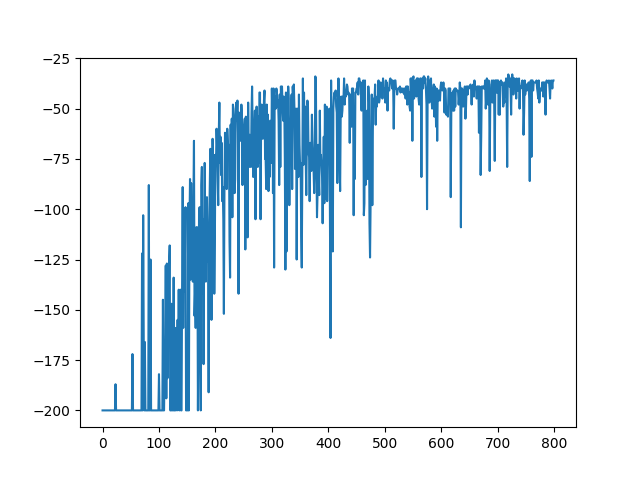
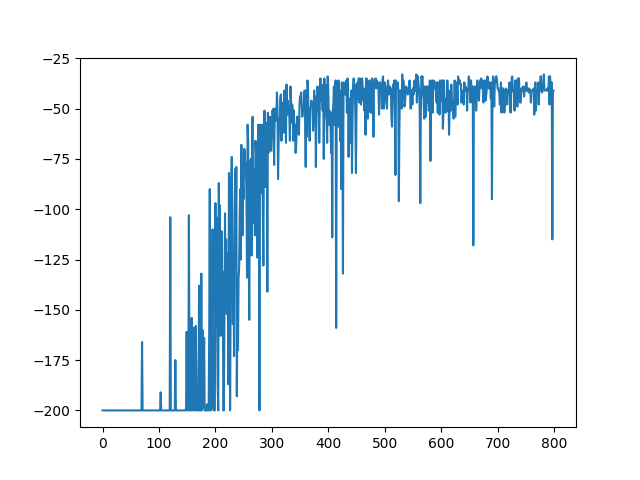
RK4 updates and changing SQlearn

Changed region(s): [[0.1562, 0.1562, 0.875, 0.875]]

diff --git a/ME759/rk4.cpp b/ME759/rk4.cpp
@@ -1,53 +1,88 @@
 #include <stdio.h>
 #include <iostream>
 #include <random>
-
-
-
 using namespace std;
 
-int main(int argc, char *argv[]) {
+void dsdt(double* deriv[], double theta1, double theta2,double dtheta1,double dtheta2,double a){
 
-    float theta1 = atoi(argv[1]);
-    float theta2 = atoi(argv[2]);
-    float dtheta1 = atoi(argv[3]);
-    float dtheta2 = atoi(argv[4]);
-    float a = atoi(argv[5]);
+    double dt = 0.2;
+    double pi = 3.14158 ; 
+    double g = 9.81;
 
-    float dt = 0.2;
-    float pi = 3.14158 ; 
-    float g = 9.81;
+    double l1 = 1.0;  // [m]
+    double l2 = 1.0;  // [m]
+    double m1 = 1.0;  //: [kg] mass of link 1
+    double m2 = 1.0 ; //: [kg] mass of link 2
+    double lc1 = 0.5 ; //: [m] position of the center of mass of link 1
+    double lc2 = 0.5 ; //: [m] position of the center of mass of link 2
+    double I1 = 1.0 ; //: moments of inertia for both links
+    double I2 = 1.0 ; //: moments of inertia for both links
 
-    float l1 = 1.0;  // [m]
-    float l2 = 1.0;  // [m]
-    float m1 = 1.0;  //: [kg] mass of link 1
-    float m2 = 1.0 ; //: [kg] mass of link 2
-    float lc1 = 0.5 ; //: [m] position of the center of mass of link 1
-    float lc2 = 0.5 ; //: [m] position of the center of mass of link 2
-    float I1 = 1.0 ; //: moments of inertia for both links
-    float I2 = 1.0 ; //: moments of inertia for both links
-
-    float d1 = (
-            m1 * lc1*lc1
-            + m2 * (l1*l1 + lc2*lc2 + 2 * l1 * lc2 * cos(theta2))
+    double d1 = (
+            m1 * (lc1*lc1)
+            + m2 * ((l1*l1) + (lc2*lc2) + 2 * l1 * lc2 * cos(theta2))
             + I1
             + I2
         );
-    float d2 = m2 * (lc2*lc2 + l1 * lc2 * cos(theta2)) + I2 ;
-    float phi2 = m2 * lc2 * g * cos(theta1 + theta2 - pi / 2.0);
-    float phi1 = (
-            -m2 * l1 * lc2 * dtheta2*dtheta2 * sin(theta2)
-            - 2 * m2 * l1 * lc2 * dtheta2 * dtheta1 * sin(theta2)
+    double d2 = m2 * ((lc2*lc2) + l1 * lc2 * cos(theta2)) + I2 ;
+    double phi2 = m2 * lc2 * g * cos(theta1 + theta2 - pi / 2.0);
+    double phi1 = (
+            -m2 * l1 * lc2 * (dtheta2*dtheta2) * sin(theta2)
+            - 2 * m2 * l1 * lc2 * (dtheta2 * dtheta1) * sin(theta2)
             + (m1 * lc1 + m2 * l1) * g * cos(theta1 - pi / 2)
             + phi2
         );
-    float ddtheta2 = (
-                a + d2 / d1 * phi1 - m2 * l1 * lc2 * dtheta1*dtheta1 * sin(theta2) - phi2
-            ) / (m2 * lc2*lc2 + I2 - d2*d2 / d1);
-    float ddtheta1 = -(d2 * ddtheta2 + phi1) / d1 ;
+    double ddtheta2 = (
+                a + d2 / d1 * phi1 - m2 * l1 * lc2 * (dtheta1*dtheta1) * sin(theta2) - phi2
+            ) / (m2 * (lc2*lc2) + I2 - (d2*d2) / d1);
+    double ddtheta1 = -(d2 * ddtheta2 + phi1) / d1 ;
 
-    cout << dtheta1 <<','<<dtheta2 << ','<< ddtheta1<< ','<< ddtheta2<< ','<< 0.0;
+    (*deriv)[0] = dtheta1;
+    (*deriv)[1] = dtheta2;
+    (*deriv)[2] = ddtheta1;
+    (*deriv)[3] = ddtheta1;
+    (*deriv)[4] = 0;
+
+}
+
+int main(int argc, char *argv[]) {
+
+    double *y = new double[5];
+    double *y1 = new double[5];
+
+    y[0] = atof(argv[1]);
+    y[1] = atof(argv[2]);
+    y[2] = atof(argv[3]);
+    y[3] = atof(argv[4]);
+    y[4] = atof(argv[5]);
+    
+    double dt = atof(argv[6]);
+    double dt2 = dt/2;
+
+    double *k1 = new double[5];
+    double *k2 = new double[5];
+    double *k3 = new double[5];
+    double *k4 = new double[5];
+
+    dsdt(&k1, y[0],               y[1],              y[2],              y[3],             y[4]);
+    dsdt(&k2, y[0] + dt2 * k1[0], y[1]+ dt2 * k1[1], y[2]+ dt2 * k1[2], y[3]+ dt2 * k1[3],y[4]+dt2 * k1[4]);
+    dsdt(&k3, y[0] + dt2 * k2[0], y[1]+ dt2 * k2[1], y[2]+ dt2 * k2[2], y[3]+ dt2 * k2[3],y[4]+dt2 * k2[4]);
+    dsdt(&k4, y[0] + dt * k3[0],  y[1]+ dt * k3[1],  y[2]+ dt * k3[2],  y[3]+ dt * k3[3], y[4]+dt * k3[4]);
+
+    for(int i = 0; i < 5; i++){
+        y1[i] = y[i] + dt/6 * (k1[i] + 2* k2[i] + 2*k3[i] + k4[i]);
+    }
+
+    delete[] k1;
+    delete[] k2;
+    delete[] k3;
+    delete[] k4;
+
+    cout << y1[0] <<','<< y1[1] << ','<< y1[2]<< ','<< y1[3] << ','<< y1[4]<< endl;
     cout.flush();
+
+    delete[] y;
+    delete[] y1;
 
     return 0;
 

diff --git a/ME759/SequentionalQlearn.py b/ME759/SequentionalQlearn.py
@@ -45,7 +45,7 @@ min_samples_for_training = 1000   # Minimum samples in the replay memory to enab
 
 
 ### Create environment
-env = gym.make('AcrobotCdyn') # Initialize the Gym environment
+env = gym.make('Acrobot') # Initialize the Gym environment
 
 # Get the shapes of the state space (observation_space) and action space (action_space)
 state_space_dim = env.observation_space.shape[0]
@@ -73,7 +73,7 @@ optimizer = torch.optim.Adam(policy_net.parameters(), lr=lr) # The optimizer wil
 loss_fn = nn.SmoothL1Loss()
 
 # Initialize the Gym environment
-env = gym.make('AcrobotCdyn') 
+env = gym.make('Acrobot') 
 observation, info = env.reset()
 
 plotting_rewards=[]
@@ -108,8 +108,9 @@ for episode_num, tau in enumerate(exploration_profile):
       replay_mem.push(observation, action, next_observation, reward)
 
       # Update the network
-      if len(replay_mem) > min_samples_for_training: # we enable the training only if we have enough samples in the replay memory, otherwise the training will use the same samples too often
-          update_step(policy_net, target_net, replay_mem, gamma, optimizer, loss_fn, batch_size, device)
+      if score % 5 == 1:
+        if len(replay_mem) > min_samples_for_training: # we enable the training only if we have enough samples in the replay memory, otherwise the training will use the same samples too often
+            update_step(policy_net, target_net, replay_mem, gamma, optimizer, loss_fn, batch_size, device)
 
       observation = next_observation
 
@@ -128,7 +129,7 @@ plt.plot(plotting_rewards)
 plt.savefig('learn.png')
 
 # Initialize the Gym environment
-env = gym.make('AcrobotCdyn') 
+env = gym.make('Acrobot') 
 observation, info = env.reset()
 plotting_rewards_final = []
 
